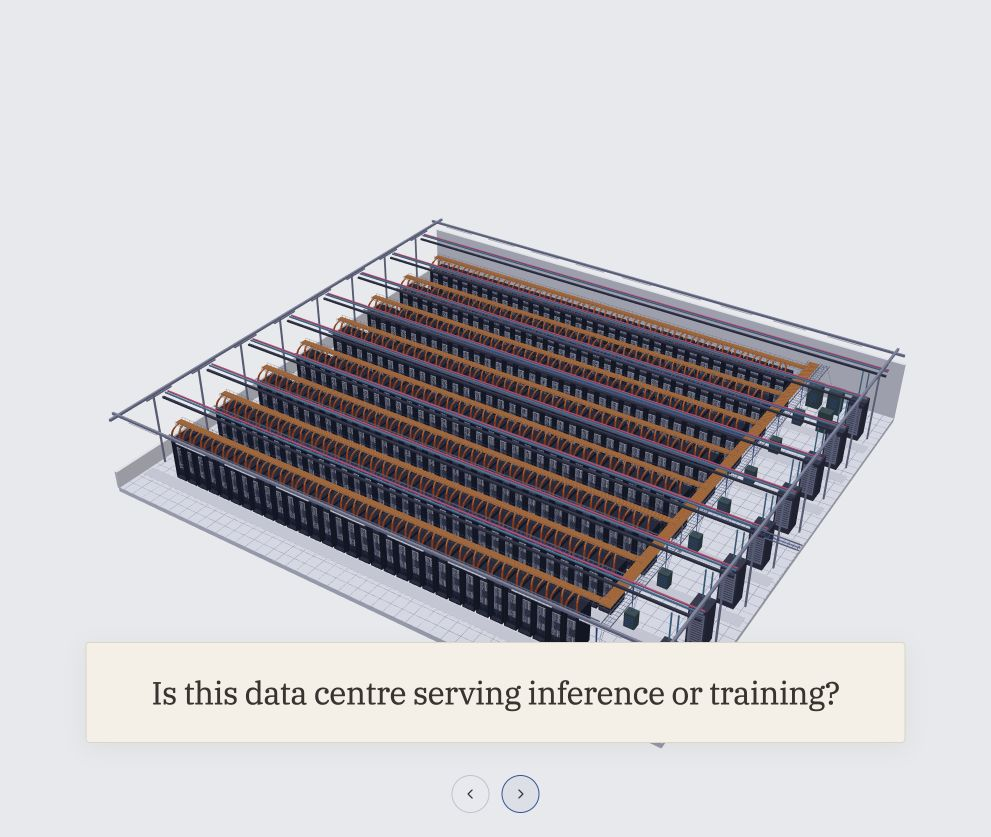
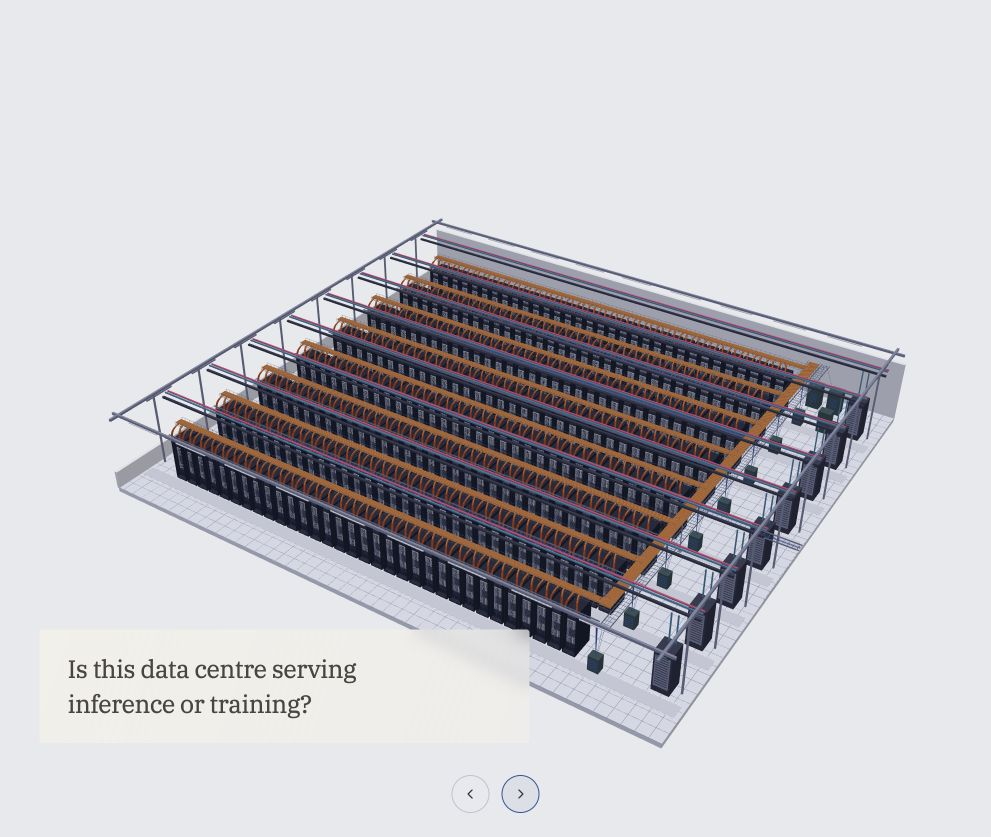
Soften presentation captions and label hardware installation

Changed region(s): [[0.0605, 0.7455, 0.8476, 0.9008]]

diff --git a/src/install_viewer.js b/src/install_viewer.js
@@ -47,7 +47,7 @@ function hardwareLOD(){const lists={far:[],medium:[],high:[]},background={far:[]
 function fade(group,value){group.visible=value>.001;group.traverse(o=>{if(!o.material)return;const ms=Array.isArray(o.material)?o.material:[o.material];for(const m of ms){m.userData.baseOpacity??=m.opacity;m.userData.baseDepthWrite??=m.depthWrite;m.opacity=m.userData.baseOpacity*value;const transparent=value<1||m.userData.baseOpacity<1;if(m.transparent!==transparent){m.transparent=transparent;m.needsUpdate=true;}m.depthWrite=value<1?false:m.userData.baseDepthWrite;}});}
 function fit(points){const target=new V();points.forEach(p=>target.add(p));target.multiplyScalar(1/points.length);target.z=1.35;const dir=new V(.58,-.88,.7).normalize(),right=new V().crossVectors(new V(0,0,1),dir).normalize(),up=new V().crossVectors(dir,right).normalize(),tv=Math.tan(camera.fov*Math.PI/360);let distance=7;for(const p of points)for(const x of[-.5,1.4])for(const y of[-1.2,.7])for(const z of[0,3.4]){const q=p.clone().add(new V(x,y,z)).sub(target);distance=Math.max(distance,q.dot(dir)+Math.abs(q.dot(right))/(tv*camera.aspect)*1.12,q.dot(dir)+Math.abs(q.dot(up))/tv*1.18);}return{target,position:target.clone().addScaledVector(dir,distance)};}
 function desiredView(step){if(step===8)step=0;if(step===7)step=5;if(step===0)return fit([...original,...hall.frame]);if(step===1)return fit(focusIds.map(id=>original[id]));return fit(installation.cameraPoints(step<4?4:step===4?5:step===5?6:8));}
-function updateUI(){if(presentation){const showPopup=current===8||current===2;$('question-popup').firstElementChild.textContent=current===2?'Split the cluster into "inference units"':'Is this data centre serving inference or training?';$('question-popup').classList.toggle('is-visible',showPopup);$('question-popup').setAttribute('aria-hidden',String(!showPopup));$('previous').disabled=busy||current===0;$('next').disabled=busy||current===7;$('next').setAttribute('aria-label','Next view');return;}const c=chapters[current];$('chapter').textContent=c.eyebrow;$('title').textContent=c.title;$('description').textContent=c.description;$('status-list').replaceChildren(...c.facts.map(text=>{const d=document.createElement('div');d.append(document.createElement('i'),document.createTextNode(text));return d;}));$('check-panel').hidden=current!==6;$('previous').disabled=busy||current===0;$('next').disabled=busy;$('next').textContent=current===6?'Restart →':'Next step →';$('camera-home').disabled=busy;document.querySelectorAll('.step').forEach((button,i)=>{button.disabled=busy;button.setAttribute('aria-current',i===current?'step':'false');});const legend=current<2?[['#cfb149','Fast compute / storage'],['#168eaa','Frontend → outside DC']]:current<5?[['#168eaa','Frontend → outside DC'],...(current===4?[['#c37d3f','Inline TAP']]:[])]:[['#168eaa','Requests / replies'],['#c37d3f','Shared TAP'],['#4d9479','Packet copies'],...(current===6?[['#c37d3f','Restricted result']]:[])];$('legend').innerHTML=legend.map(([color,text])=>`<span><i style="background:${color}"></i>${text}</span>`).join('');}
+function updateUI(){if(presentation){const caption={8:'Is this data centre serving inference or training?',2:'Split the cluster into "inference units"',4:'Fit verification hardware',5:'Fit verification hardware'}[current];const showPopup=Boolean(caption);if(caption)$('question-popup').firstElementChild.textContent=caption;$('question-popup').classList.toggle('is-visible',showPopup);$('question-popup').setAttribute('aria-hidden',String(!showPopup));$('previous').disabled=busy||current===0;$('next').disabled=busy||current===7;$('next').setAttribute('aria-label','Next view');return;}const c=chapters[current];$('chapter').textContent=c.eyebrow;$('title').textContent=c.title;$('description').textContent=c.description;$('status-list').replaceChildren(...c.facts.map(text=>{const d=document.createElement('div');d.append(document.createElement('i'),document.createTextNode(text));return d;}));$('check-panel').hidden=current!==6;$('previous').disabled=busy||current===0;$('next').disabled=busy;$('next').textContent=current===6?'Restart →':'Next step →';$('camera-home').disabled=busy;document.querySelectorAll('.step').forEach((button,i)=>{button.disabled=busy;button.setAttribute('aria-current',i===current?'step':'false');});const legend=current<2?[['#cfb149','Fast compute / storage'],['#168eaa','Frontend → outside DC']]:current<5?[['#168eaa','Frontend → outside DC'],...(current===4?[['#c37d3f','Inline TAP']]:[])]:[['#168eaa','Requests / replies'],['#c37d3f','Shared TAP'],['#4d9479','Packet copies'],...(current===6?[['#c37d3f','Restricted result']]:[])];$('legend').innerHTML=legend.map(([color,text])=>`<span><i style="background:${color}"></i>${text}</span>`).join('');}
 if(!presentation)chapters.forEach((chapter,i)=>{const b=document.createElement('button');b.className='step';b.innerHTML=`<b>${String(i+1).padStart(2,'0')}</b>${chapter.short}`;b.onclick=()=>goTo(i);$('steps').append(b);});
 function cancelCheck(){check=null;checkPhase='idle';installation.setSampling(false);if(presentation)return;$('run-check').disabled=false;$('result').className='result';$('result').textContent='Ready to replay a sampled request.';$('observed-reply').textContent='—';$('recomputed-reply').textContent='—';$('sample-unit').textContent='Sample one inference unit';for(const id of ['observe','replay','compare'])$(id).classList.remove('active');}
 const smooth=u=>{u=THREE.MathUtils.clamp(u,0,1);return u*u*(3-2*u);};

diff --git a/presentation.html b/presentation.html
@@ -6,10 +6,10 @@
 <link rel="preload" href="assets/fonts/ibm-plex-serif-regular-latin.woff2" as="font" type="font/woff2" crossorigin>
 <style>
 @font-face{font-family:'IBM Plex Serif';src:url('assets/fonts/ibm-plex-serif-regular-latin.woff2') format('woff2');font-style:normal;font-weight:400;font-display:swap}
-.question-popup{position:fixed;z-index:2;left:50%;bottom:94px;width:min(820px,calc(100% - 48px));margin:0;padding:29px 42px;background:#f4f0e6;color:#38352f;border:1px solid #dcd5c8;border-radius:4px;box-shadow:0 5px 22px #302b2010;pointer-events:none;text-align:center;opacity:0;visibility:hidden;transform:translate(-50%,14px);transition:opacity .45s,transform .45s,visibility 0s .45s}
-.question-popup.is-visible{opacity:1;visibility:visible;transform:translate(-50%,0);transition-delay:0s}
-.question-popup p{margin:0;font:400 clamp(27px,3.2vw,42px)/1.3 'IBM Plex Serif',Georgia,serif;letter-spacing:-.018em;text-wrap:balance}
-@media(max-width:600px){.question-popup{bottom:88px;padding:22px 24px;width:calc(100% - 32px)}}
+.question-popup{position:fixed;z-index:2;left:clamp(24px,4vw,64px);bottom:94px;width:fit-content;max-width:min(490px,calc(100% - 48px));margin:0;padding:22px 28px;background:linear-gradient(110deg,rgb(246 242 232 / 72%),rgb(246 242 232 / 46%));color:#49463f;border:0;border-radius:3px;backdrop-filter:blur(8px);-webkit-backdrop-filter:blur(8px);pointer-events:none;text-align:left;opacity:0;visibility:hidden;transform:translateY(6px);transition:opacity .6s,transform .6s,visibility 0s .6s}
+.question-popup.is-visible{opacity:1;visibility:visible;transform:translateY(0);transition-delay:0s}
+.question-popup p{margin:0;font:400 clamp(24px,2.5vw,34px)/1.4 'IBM Plex Serif',Georgia,serif;letter-spacing:-.018em;text-wrap:balance}
+@media(max-width:600px){.question-popup{left:20px;bottom:88px;padding:18px 22px;max-width:calc(100% - 40px)}.question-popup p{font-size:23px}}
 @media(prefers-reduced-motion:reduce){.question-popup{transition:none}}
 
 :root{color-scheme:light;background:#e8e9ec;color:#33374c}*{box-sizing:border-box}html,body{margin:0;width:100%;height:100%;overflow:hidden}.stage{position:fixed;inset:0}.stage canvas{display:block;width:100%;height:100%;touch-action:none}.navigation{position:fixed;z-index:2;bottom:max(24px,env(safe-area-inset-bottom));left:50%;transform:translateX(-50%);display:flex;gap:12px}button{display:grid;place-items:center;width:38px;height:38px;border:1px solid #8389a366;border-radius:50%;padding:0;background:#e8e9eceb;color:#33374c;cursor:pointer;transition:background .15s,border-color .15s,opacity .15s}button:hover:not(:disabled){background:#dcdfe7;border-color:#2d539e}button:focus-visible{outline:2px solid #2d539e;outline-offset:4px}button:disabled{opacity:.28;cursor:default}svg{width:16px;height:16px;fill:none;stroke:currentColor;stroke-width:1.6;stroke-linecap:round;stroke-linejoin:round}@media(prefers-reduced-motion:reduce){button{transition:none}}

diff --git a/README.md b/README.md
@@ -83,7 +83,7 @@ The shared TAP forwards the three original links outside the DC and branches cop
 
 ## Text-free presentation
 
-Open **`presentation.html`** for the full-canvas Iceberg Light edition. Only two small circular back/forward controls are visible; Left/Right arrow keys also navigate. Seven views run from full DC → inference-or-training question → zoom → separation and backend fade → shared TAP → verifier → real hardware photos. The question appears before zoom-in in a warm beige bottom popup with regular-weight IBM Plex Serif. During backend fading, the same popup reads “Split the cluster into "inference units"”. The locally hosted font is bundled; its font license is included in `assets/fonts/`. The redundant hold after separation is skipped in both directions. The photo callouts are the final view; the forward arrow is disabled there. No automatic recomputation or restart step is included in this edition. Drag and scroll still orbit and zoom. The annotated `install.html` interface is retained.
+Open **`presentation.html`** for the full-canvas Iceberg Light edition. Only two small circular back/forward controls are visible; Left/Right arrow keys also navigate. Seven views run from full DC → inference-or-training question → zoom → separation and backend fade → shared TAP → verifier → real hardware photos. The question appears before zoom-in in a lower-left caption with regular-weight IBM Plex Serif, a translucent beige background, and a soft fade. Captions use balanced line breaks and stay clear of the central hardware. During backend fading, the same popup reads “Split the cluster into "inference units"”. “Fit verification hardware” remains visible across the TAP and verifier installation views, then clears for the photo callouts. The locally hosted font is bundled; its font license is included in `assets/fonts/`. The redundant hold after separation is skipped in both directions. The photo callouts are the final view; the forward arrow is disabled there. No automatic recomputation or restart step is included in this edition. Drag and scroll still orbit and zoom. The annotated `install.html` interface is retained.
 
 The palette follows [Iceberg Light](https://terminalcolors.com/themes/iceberg/light/): background `#e8e9ec`, hardware `#33374c` / `#262a3f`, frontend blue `#2d539e`, copies green `#668e3d`, and TAP / removed fabric orange `#c57339`. Shaded hardware and metal use cool neutral variations. No animated packet markers are introduced.
 
